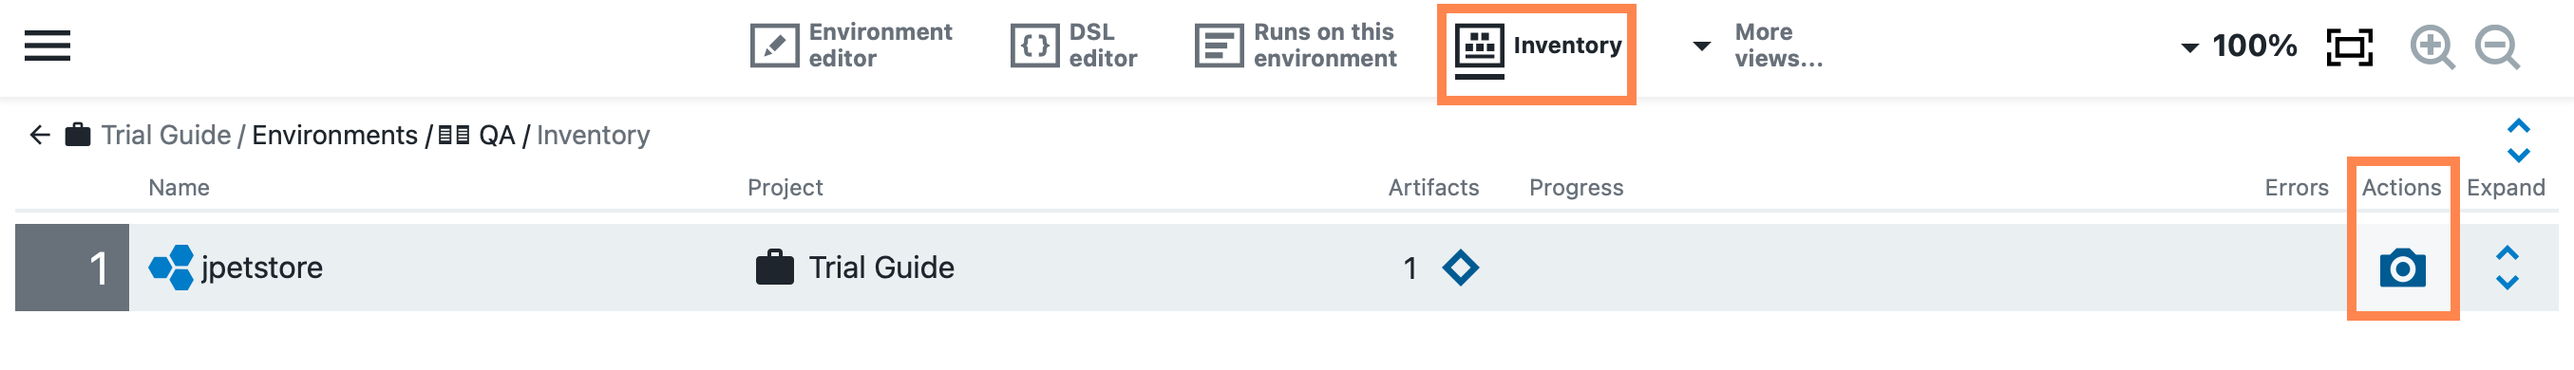
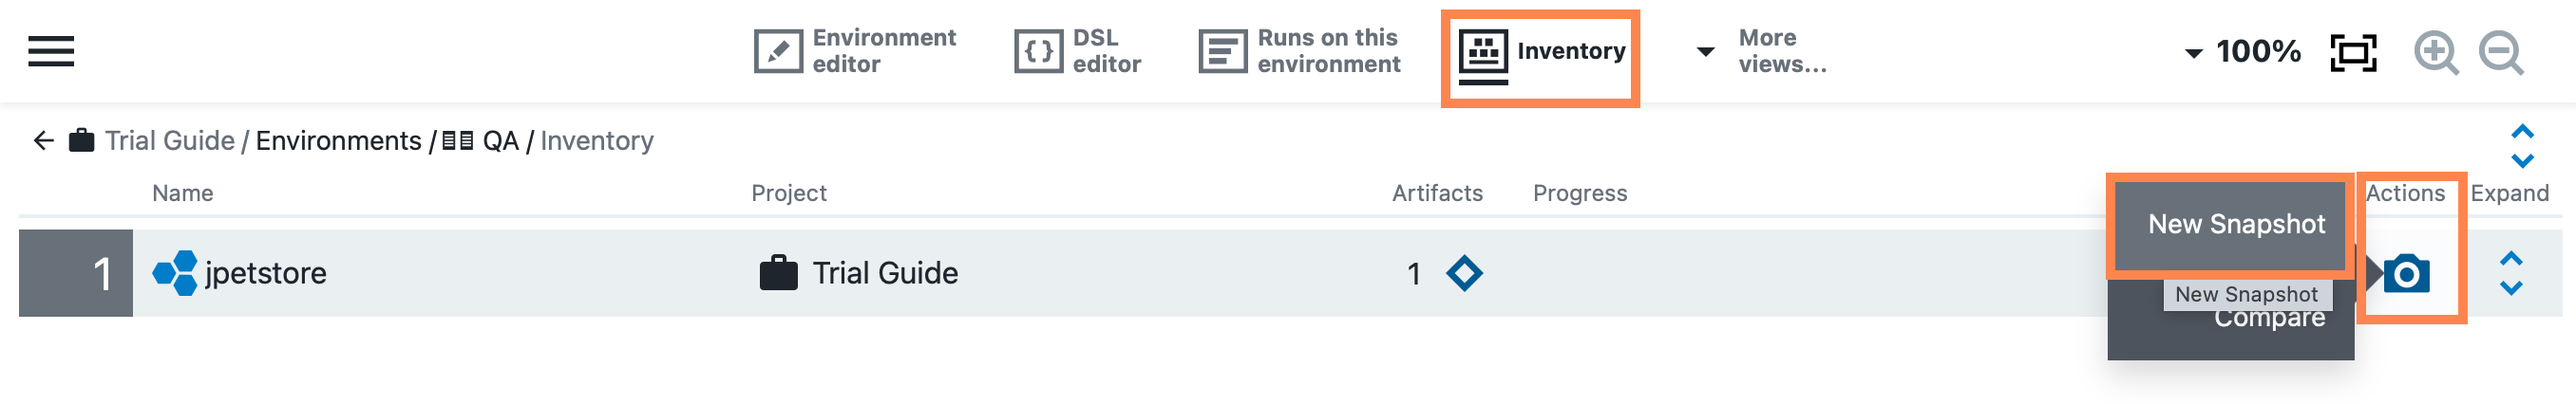
deploy tomcat updates

diff --git a/labs/cloudbees-cdro/content/labs/module-1/deploy-tomcat.md b/labs/cloudbees-cdro/content/labs/module-1/deploy-tomcat.md
@@ -65,7 +65,7 @@ In this exercise we will map a deployment environment to your Tomcat application
 7. Close the Job Details dialog to return to the **Deploy** run.
 8. Navigate to the environment where the application was deployed by clicking **QA** in the breadcrumbs. ![Navigate to QA Environment](deploy-qa-env-link.png?width=20pc)
 9. Click on the **Inventory** link in the top navigation. ![QA Inventory link](qa-inventory-link.png?width=20pc)
-10. Create a snapshot by clicking the snapshot (camera) icon under the **Actions** column. ![QA Inventory](qa-inventory.png?width=20pc)
-11. The New Snapshot dialog appears.
-12. Enter version number 1.0 in the top field, and then select **Next**. You now have a snapshot of this artifact. ![Snapshot of artifact](te-app-snapshot-details.png?width=20pc)
+10. Create a snapshot by clicking the snapshot (camera) icon under the **Actions** column and clicking the **New Snapshot** link. ![QA Inventory New Snapshot](qa-inventory.png?width=20pc)
+11. In the **New Snapshot** dialog enter *jpetstore-qa** as the **Name** and then click the **Next** button. ![New QA Snapshot](new-qa-snapshot.png?width=20pc) 
+12. You now have a snapshot of this artifact. ![Snapshot of artifact](te-app-snapshot-details.png?width=70pc)
 
